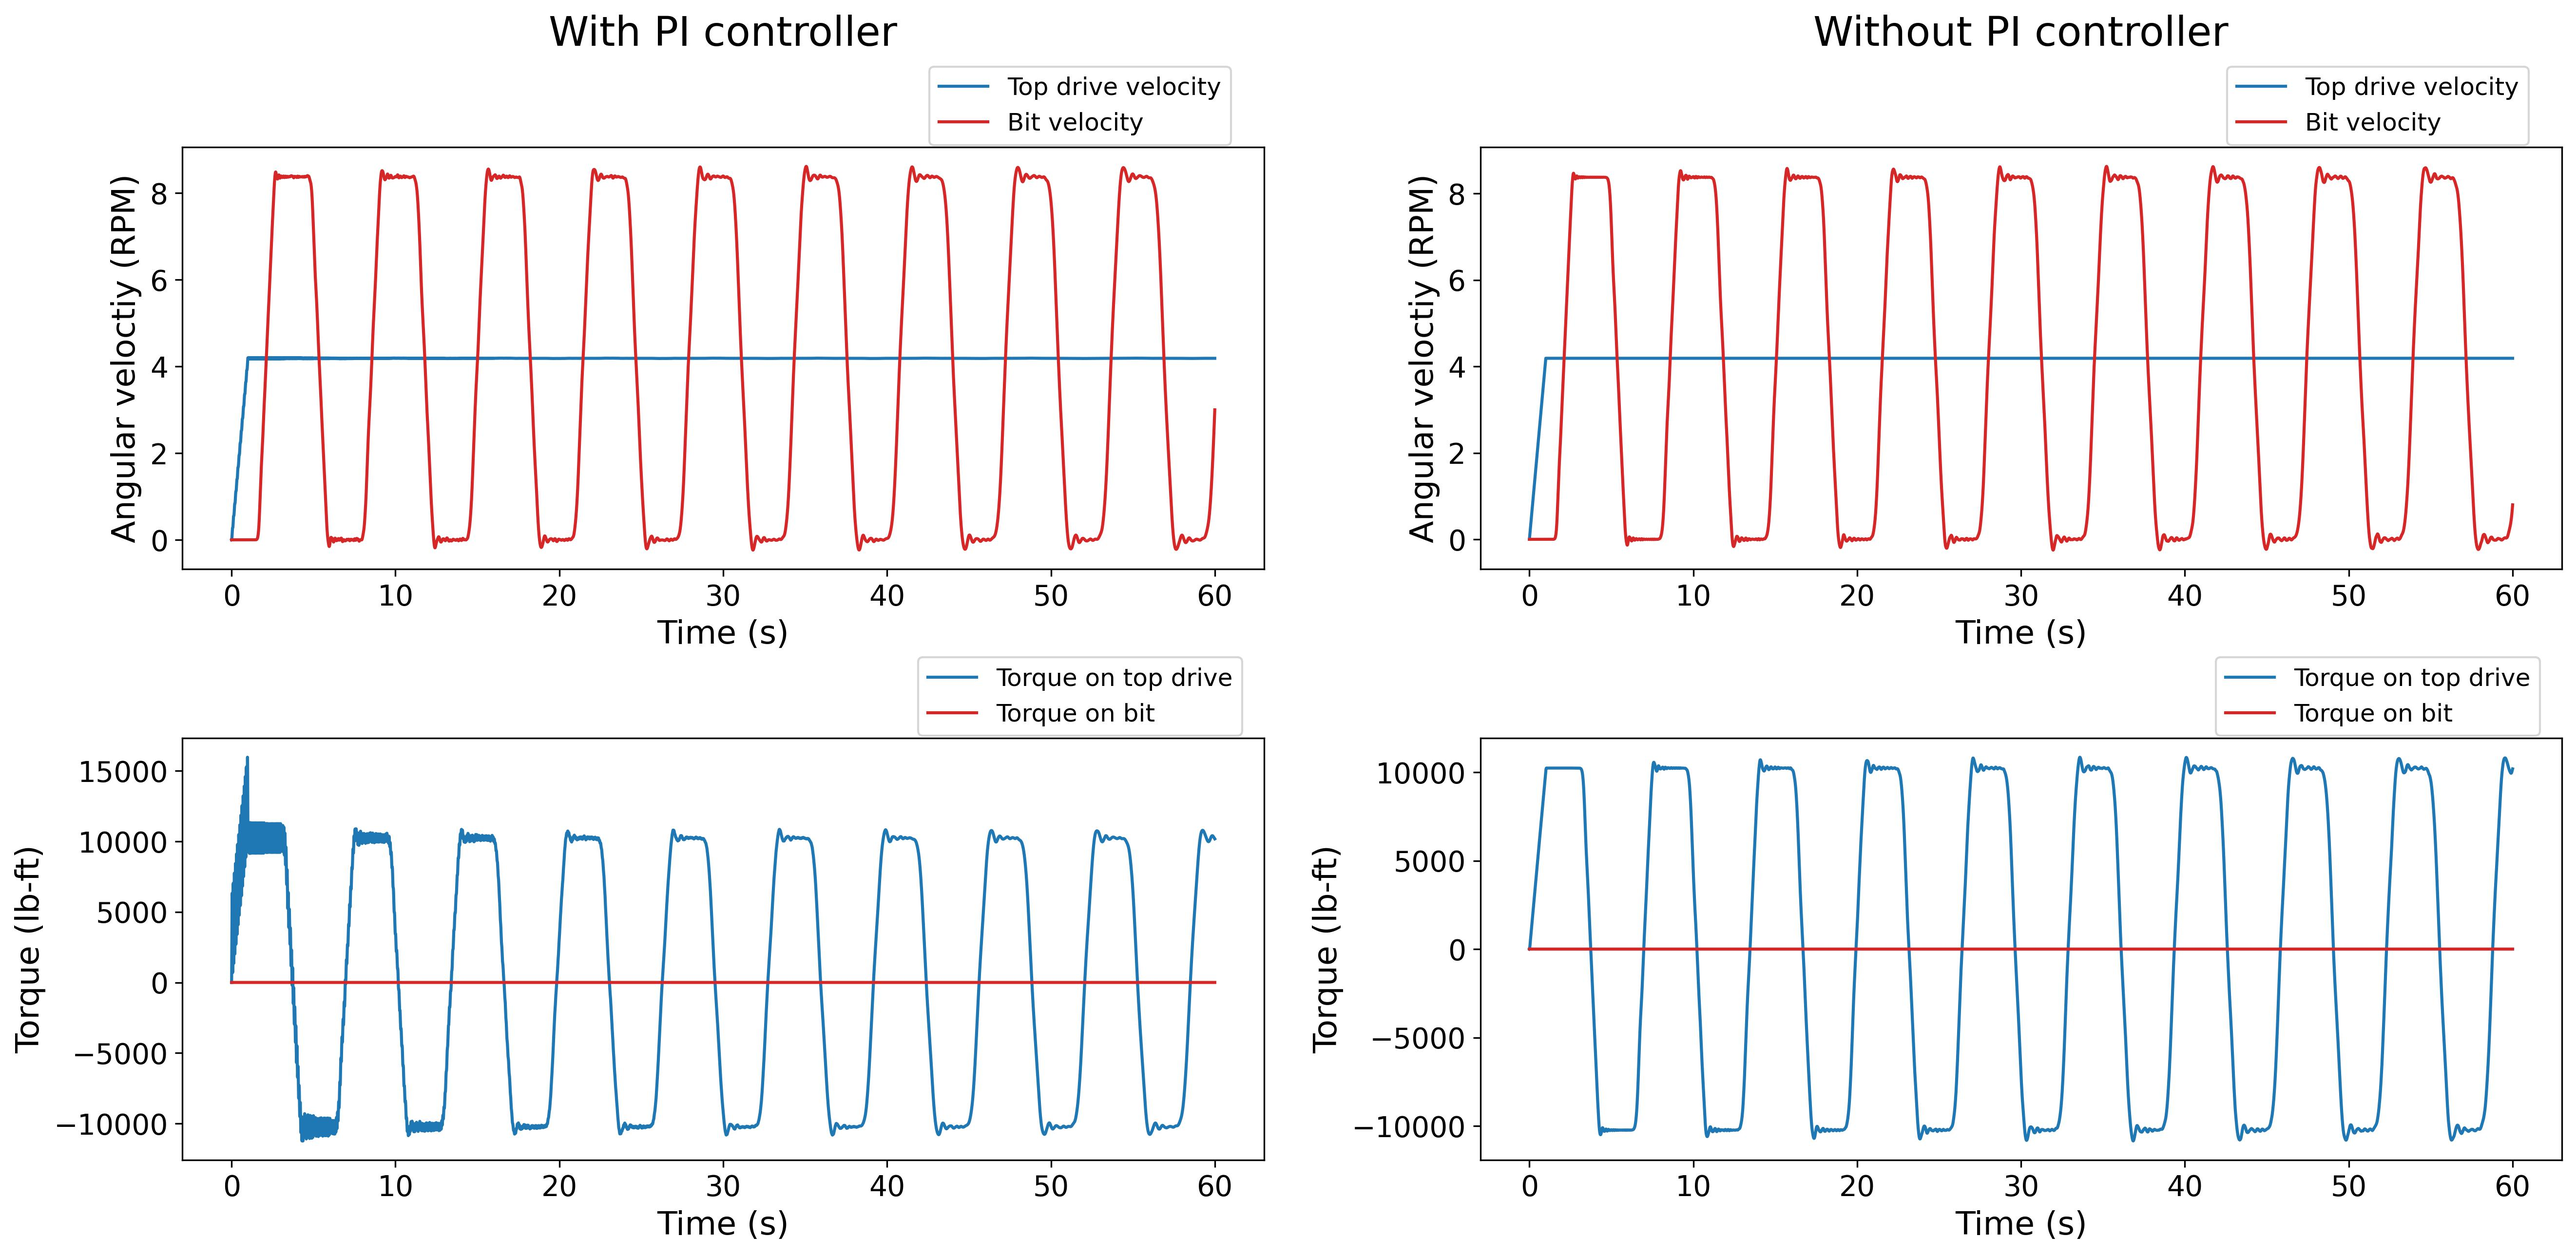
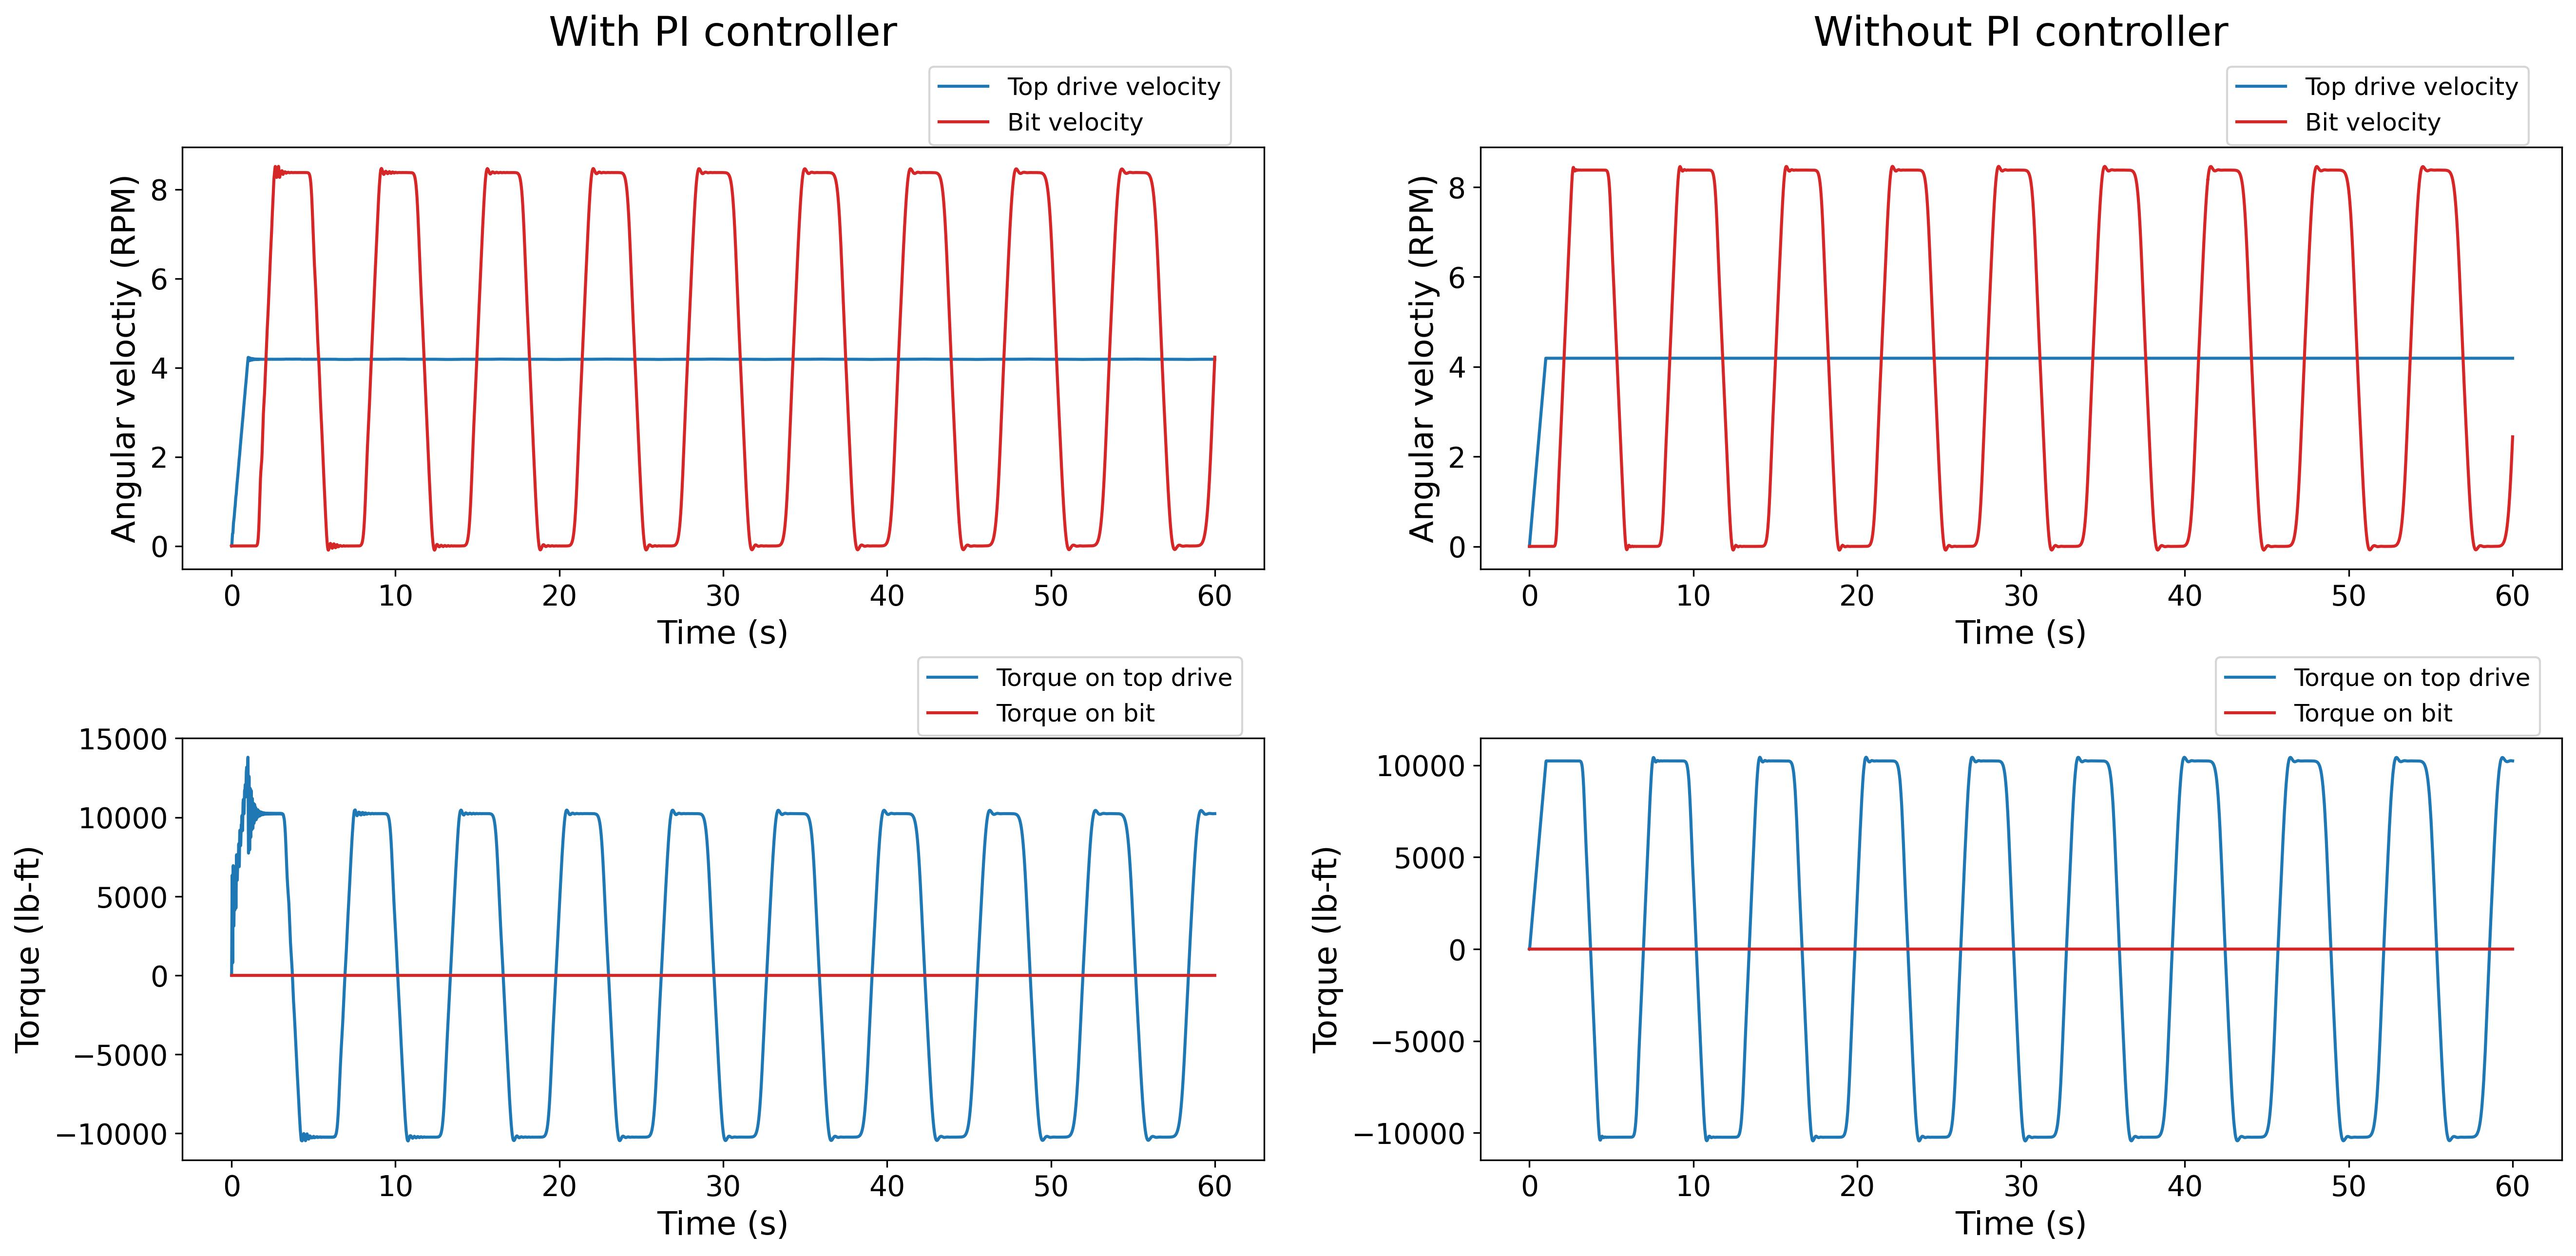
Updates
Figure modification for A-S chapter and added results and comparisons

diff --git a/src/Results and Comparisons.tex b/src/Results and Comparisons.tex
@@ -20,7 +20,7 @@ The results for Test case 2a from each model are depicted in \figurename~\ref{fi
 \begin{figure}
   \centering
   \includegraphics[width=6.5in]{output_figureTestCase2_1}
-  \caption[Results of Test Case 2a]{Results of Test Case 2a. First and second columns show the results from A-S model (MATLAB ver./) and ExxonMobil model, respectively.}\label{figure_testcase2_1}
+  \caption[Results of Test Case 2a]{Results of Test Case 2a. First and second columns show the results from A-S model (MATLAB ver.) and ExxonMobil model, respectively.}\label{figure_testcase2_1}
 \end{figure}
 
 \begin{figure}
@@ -48,9 +48,9 @@ The fundamental frequencies of the vibration were 0.28 and 0.27 for A-S model an
 \end{figure}
 
 \subsection{Test Case 3}
-Test Case 3 shows the effect of BHA components in vertical well. The results show similarities with Test Case 1, but fluctuations in the peak vibration value were observed. Specifically, the peak vibration value decreases until 60 seconds and then starts to increase again, ultimately reaching the same value as the beginning at 120 seconds. Figure \ref{figure_testcase3} and Figure \ref{figure_testcase3_overlapped} illustrate the results for each model and provide comparisons for Test Case 3.
+Test Case 3 shows the effect of BHA components in vertical well. The results show similarities with Test Case 1, but fluctuations in the peak values of the vibration, for both bit angular velocity and top drive torque, were observed. Specifically, the peak value decreases until 80 seconds and then starts to increase again, ultimately reaching the same value as the beginning at 120 seconds. Figure \ref{figure_testcase3} and Figure \ref{figure_testcase3_overlapped} illustrate the results for each model and comparisons for Test Case 3. \ref{figure_testcase3_overlapped} shows the simulation results for 120 seconds to clearly show the change in the peak values.
 
-Compared to Test Case 1 (without BHA components), the fundamental vibration frequencies in Test Case 3 were slightly decreased, measuring 0.42 Hz for the A-S model and 0.40 Hz for the ExxonMobil model. Conversely, the bit velocity and torque on the top drive increased. The maximum bit velocity was 80 RPM for the A-S model and 81 RPM for the ExxonMobil model, while the torque on the top drive was predicted as 1844 lb-ft for the A-S model and 1841 lb-ft for the ExxonMobil model. Figure \ref{figure_testcase2_1_overlapped} shows the comparison of the results from the two different models.
+Compared to Test Case 1 (without BHA components), the fundamental vibration frequencies in Test Case 3 were slightly decreased, which are 0.42 Hz for the A-S model and 0.40 Hz for the ExxonMobil model. Conversely, the bit velocity and torque on the top drive increased. The maximum bit velocity was 80 RPM for the A-S model and 81 RPM for the ExxonMobil model, while the torque on the top drive was predicted as 1844 lb-ft for the A-S model and 1841 lb-ft for the ExxonMobil model. 
 
 \begin{figure}
   \centering
@@ -59,7 +59,7 @@ Compared to Test Case 1 (without BHA components), the fundamental vibration freq
 \end{figure}
 \begin{figure}
   \centering
-  \includegraphics[width=6.5in]{overlapped_figureTestCase3}
+  \includegraphics[width=6.5in]{overlapped_figureTestCase3_1}
   \caption[Comparison of the results for Test Case 3]{Comparison between the results from A-S model (MATLAB ver.) and ExxonMobil model for Test Case 3.}\label{figure_testcase3_overlapped}
 \end{figure}
 

diff --git a/src/Aarsnes-Shor Model.tex b/src/Aarsnes-Shor Model.tex
@@ -310,8 +310,8 @@ The model of MATLAB ver.\ and PYTHON ver.\ were compared before conducting the t
 
 \begin{figure}
   \centering
-  \includegraphics[width=6.5in]{PYTHON_reducedDensity}
-  \caption[Effect of density to PYTHON ver.\ for Test case 1]{Effect of density to PYTHON ver.\ for Test case 1.\ a): $\rho=409.5\;lb/ft^3$, and b): $\rho=122.65\;lb/ft^3$.}\label{figure_PYTHON_reducedDensity}
+  \includegraphics[width=6.5in]{density_comp}
+  \caption[Effect of drill pipe density in PYTHON ver.\ for Test case 1]{Effect of drill pipe density to drill string vibration for A-S model, PYTHON ver.\ First and second columns show the results with $\rho=409.5\;lb/ft^3$, and  $\rho=122.65\;lb/ft^3$, respectively.}\label{figure_PYTHON_reducedDensity}
 \end{figure}
 
 
